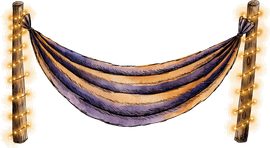
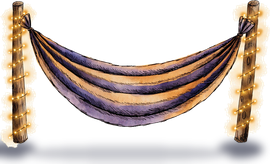
Foresta e ChiwiCrush

diff --git a/js/dati.js b/js/dati.js
@@ -278,80 +278,80 @@ var ZONE = [
   {
     id: "foresta", nome: "La foresta delle lucciole", musica: "notte", sfondo: "img/zona5/vuota.jpg", cartella: "img/zona5/", senzaIcone: true,
     descrizione: "Una foresta dove è sempre notte e la luce la fanno le lucciole.",
-    prati: [{ x1: 26, x2: 74, y1: 64, y2: 84 }],
+    prati: [{ x1: 28, x2: 72, y1: 68, y2: 82 }],
     pezzi: {
       for_casetta: {
         nome: "Casetta nel tronco", livello: 12, costo: { legnetti: 14, sassolini: 6 }, xp: 30,
-        pos: [2, 49.22, 22, 14.78], tocco: [[3.8, 50.4, 22.2, 63.3]],
+        pos: [3, 45.88, 30, 20.12], tocco: [[5.4, 47.49, 30.6, 64.39]],
         descrizione: "Una casetta rotonda dentro un vecchio tronco, con la finestra che brilla."
       },
       for_barattoli: {
         nome: "Barattoli di lucciole", livello: 12, costo: { legnetti: 6, petali: 6 }, xp: 20,
-        pos: [23, 53.08, 8, 9.92], tocco: [[23.6, 53.9, 30.4, 62.5]],
+        pos: [27, 59.54, 10, 12.46], tocco: [[27.8, 60.54, 36.2, 71]],
         descrizione: "Barattoli pieni di lucciole appesi a un palo: fanno luce tutta la notte."
       },
       for_funghi: {
         nome: "Cerchio di funghi blu", livello: 12, costo: { petali: 10 }, xp: 20,
-        pos: [38, 64.32, 24, 8.68], tocco: [[39.9, 65.0, 60.1, 72.6]],
+        pos: [33, 70.64, 30, 10.86], tocco: [[35.4, 71.51, 60.6, 80.63]],
         descrizione: "Un cerchio magico di funghi che brillano di blu."
       },
       for_panchina: {
         nome: "Panchina di muschio", livello: 13, costo: { sassolini: 10 }, xp: 18,
-        pos: [7, 66.83, 16, 8.17], tocco: [[8.3, 67.5, 21.7, 74.6]],
+        pos: [6, 68.81, 20, 10.19], tocco: [[7.6, 69.62, 24.4, 78.18]],
         descrizione: "Una panchina di pietra coperta di muschio morbido e fiorellini."
       },
       for_fiore: {
         nome: "Il grande fiore lucente", livello: 13, costo: { petali: 12, stelle: 2 }, xp: 24,
-        pos: [63, 55.37, 11, 8.63], tocco: [[63.9, 56.1, 73.1, 63.6]], bolla: [68.5, 57.4],
+        pos: [71, 61.03, 14, 10.97], tocco: [[72.12, 61.91, 83.88, 71.12]], bolla: [78, 63.67],
         produce: { materiale: "petali", ogni: 3 * MINUTO, max: 5 },
         descrizione: "Un fiore gigante che si apre di notte e lascia cadere petali luminosi."
       },
       for_amaca: {
         nome: "Amaca delle lucciole", livello: 13, costo: { legnetti: 10, petali: 6 }, xp: 22,
-        pos: [37, 52.35, 25, 7.65], tocco: [[39.0, 53.0, 60.0, 59.6]],
+        pos: [37, 59.65, 32, 10.85], tocco: [[39.56, 60.52, 66.44, 69.63]],
         descrizione: "Un'amaca a righe tra due pali con le lucine: per dondolarsi sotto le stelle."
       },
       for_laghetto: {
         nome: "Laghetto delle ninfee", livello: 14, costo: { sassolini: 10, petali: 6 }, xp: 24,
-        pos: [23, 76.54, 18, 6.46], tocco: [[24.4, 77.1, 39.6, 82.7]],
+        pos: [24, 79.09, 22, 7.91], tocco: [[25.76, 79.72, 44.24, 86.37]],
         descrizione: "Un piccolo laghetto blu con le ninfee rosa."
       },
       for_legna: {
         nome: "Legnetti e copertina", livello: 14, costo: { legnetti: 12 }, xp: 22,
-        pos: [82, 72.04, 13, 7.96], tocco: [[83.0, 72.7, 94.0, 79.6]], bolla: [88.5, 74.0],
+        pos: [79, 76.79, 15, 9.21], tocco: [[80.2, 77.53, 92.8, 85.26]], bolla: [86.5, 79.06],
         produce: { materiale: "legnetti", ogni: 3 * MINUTO, max: 5 },
         descrizione: "Una catasta di legnetti con la copertina e la lanterna: qui si trovano sempre legnetti."
       },
       for_ceppo: {
         nome: "Tavolino del tè", livello: 14, costo: { legnetti: 8, sassolini: 6, stelle: 2 }, xp: 26,
-        pos: [59, 72.56, 15, 7.44], tocco: [[60.2, 73.2, 72.8, 79.6]],
+        pos: [66, 69.57, 19, 9.43], tocco: [[67.52, 70.33, 83.48, 78.25]],
         descrizione: "Un vecchio ceppo diventato tavolino, con le tazzine di ghianda e la teiera."
       },
       for_cartello: {
         nome: "Cartello del bosco", livello: 15, costo: { legnetti: 8 }, xp: 16,
-        pos: [73, 66.27, 7, 8.73], tocco: [[73.6, 67.0, 79.4, 74.6]],
+        pos: [86, 64.07, 8, 9.93], tocco: [[86.64, 64.87, 93.36, 73.21]],
         descrizione: "Un cartello con tre frecce: indica la strada per tutte le terre del Giardino."
       },
       for_sentiero: {
         nome: "Sentiero delle lanterne", livello: 15, costo: { sassolini: 14, stelle: 2 }, xp: 28,
-        pos: [40, 79.42, 26, 8.58], tocco: [[42.1, 80.1, 63.9, 87.6]], bolla: [53.0, 81.4],
+        pos: [48, 79.11, 30, 9.89], tocco: [[50.4, 79.9, 75.6, 88.21]], bolla: [63, 81.39],
         produce: { materiale: "sassolini", ogni: 4 * MINUTO, max: 4 },
         descrizione: "Sassi piatti con le lanterne di carta, per non perdersi di notte."
       },
       for_cespuglio: {
         nome: "Cespuglio di bacche", livello: 15, costo: { petali: 8, spinaci: 6 }, xp: 22,
-        pos: [74, 81.56, 15, 7.44], tocco: [[75.2, 82.2, 87.8, 88.6]], bolla: [81.5, 83.6],
+        pos: [4, 76.06, 16, 7.94], tocco: [[5.28, 76.7, 18.72, 83.36]], bolla: [12, 78.24],
         produce: { materiale: "spinaci", ogni: 2 * MINUTO, max: 6 },
         descrizione: "Un cespuglio di bacche blu e rosa: al Chiwinnie piacciono quasi come gli spinaci!"
       },
       for_altalena: {
         nome: "Altalena di rampicanti", livello: 16, costo: { legnetti: 14, stelle: 3 }, xp: 30,
-        pos: [77, 51.63, 18, 14.37], tocco: [[78.4, 52.8, 93.6, 65.3]],
+        pos: [70, 47.4, 22, 17.6], tocco: [[71.76, 48.81, 90.24, 63.59]],
         descrizione: "Un'altalena appesa a un arco di foglie e fiorellini luminosi."
       },
       for_ponte: {
         nome: "Ponticello delle lanterne", livello: 16, costo: { legnetti: 16, sassolini: 8, stelle: 3 }, xp: 34,
-        pos: [2, 87.78, 25, 8.22], tocco: [[4.0, 88.4, 25.0, 95.6]],
+        pos: [0, 83.45, 26, 8.55], tocco: [[2.08, 84.14, 23.92, 91.32]],
         descrizione: "Un ponticello di legno sul ruscello, con le lanterne sulle ringhiere."
       }
     }
@@ -988,8 +988,8 @@ var MINIGIOCHI = {
     descrizione: "Il sentiero verso la terra dopo! È l'avventura più lunga: corri, salta i nebbiolini e non farti prendere dal Nebbione. In fondo ti aspetta un forziere."
   },
   tris: {
-    nome: "Scambio magico", img: "img/petali.png", livello: 2, energia: 10,
-    descrizione: "Scambia due simboli vicini per metterne tre uguali in fila, oppure quattro a quadrato: spariscono e ne cadono di nuovi. Con quattro in fila nasce una girandola: scambiala con un simbolo e spariscono tutti quelli uguali! Con una L, una T o un rettangolo nasce una bomba di fiori che scoppia tutto intorno, con cinque in fila la sfera arcobaleno che pulisce tutto. Raccogli quello che chiede il Chiwinnie prima che finiscano le mosse."
+    nome: "ChiwiCrush", img: "img/petali.png", livello: 2, energia: 10,
+    descrizione: "Scambia due simboli vicini per metterne tre uguali in fila, oppure quattro a quadrato: spariscono e ne cadono di nuovi. Con quattro in fila nasce una girandola: scambiala con un simbolo e spariscono tutti quelli uguali! Con una L, una T o un rettangolo nasce una bomba di fiori che scoppia tutto intorno, con cinque in fila la sfera arcobaleno che pulisce tutto. Più terre apri, più simboli del mondo dei Chiwinnie trovi: funghi, pigne, ninfee, cupcake, cristalli… Raccogli quello che chiede il Chiwinnie prima che finiscano le mosse."
   },
   conti: {
     nome: "Indovinelli dei numeri", img: "img/stella.png", livello: 1, energia: 0, rompicapo: true,
@@ -1162,7 +1162,7 @@ var MISSIONI = [
   { id: "avventura", testo: "Arriva in fondo a un'avventura", testoN: "Arriva in fondo a {n} avventure", ev: "partita", conta: function (d) { return d.arcade && d.completato ? 1 : 0; }, n: [1, 1, 2, 2, 3] },
   { id: "stelle",    testo: "Trova {n} stelle nascoste nelle avventure", ev: "partita", conta: function (d) { return d.arcade ? d.stelleLivello || 0 : 0; }, n: [1, 2, 3, 4, 5] },
   { id: "rompicapi", testo: "Risolvi {n} rompicapi", ev: "partita", conta: function (d) { return d.rompicapo && d.completato ? 1 : 0; }, n: [1, 2, 2, 3, 4] },
-  { id: "tris",      testo: "Fai {n} file nello Scambio magico", ev: "partita", gioco: "tris", conta: function (d) { return d.gioco === "tris" ? d.file || 0 : 0; }, n: [15, 25, 35, 45, 60] },
+  { id: "tris",      testo: "Fai {n} file in ChiwiCrush", ev: "partita", gioco: "tris", conta: function (d) { return d.gioco === "tris" ? d.file || 0 : 0; }, n: [15, 25, 35, 45, 60] },
   { id: "conti",     testo: "Rispondi giusto a {n} indovinelli dei numeri", ev: "partita", gioco: "conti", conta: function (d) { return d.gioco === "conti" ? d.giuste || 0 : 0; }, n: [5, 8, 10, 15, 20] },
   { id: "fuga",      testo: "Scappa dal Nebbione fino in fondo", ev: "partita", gioco: "fuga", conta: function (d) { return d.gioco === "fuga" && d.completato ? 1 : 0; }, n: [1] },
   { id: "memory",    testo: "Completa {n} Memory dei fiori", ev: "partita", gioco: "memory", conta: function (d) { return d.gioco === "memory" && d.completato ? 1 : 0; }, n: [1, 1, 2] },

diff --git a/js/giochini.js b/js/giochini.js
@@ -1,4 +1,4 @@
-// Giochini: lo Scambio magico (tre in fila, quadrati e L) e gli Indovinelli dei numeri.
+// Giochini: ChiwiCrush (tre in fila, quadrati e L) e gli Indovinelli dei numeri.
 // Come gli altri minigiochi: ricevono (area, api) e restituiscono una funzione che li ferma.
 (function () {
   function mescola(a) { for (var i = a.length - 1; i > 0; i--) { var j = Math.floor(Math.random() * (i + 1)); var t = a[i]; a[i] = a[j]; a[j] = t; } return a; }
@@ -6,7 +6,7 @@
   function scegli(a) { return a[Math.floor(Math.random() * a.length)]; }
   function vibra(ms) { try { navigator.vibrate && navigator.vibrate(ms); } catch (e) {} }
 
-  // ================= Scambio magico (era il Tris di fiori) =================
+  // ================= ChiwiCrush (era il Tris di fiori) =================
   // Si scambiano due simboli vicini: tre o più uguali in fila spariscono e dall'alto ne cadono di nuovi.
   // Valgono le file di tre (in riga o in colonna), i quadrati 2×2, i rettangoli a due colonne e le L.
   // Quattro in fila fanno nascere una girandola: scambiata con un simbolo fa sparire tutti quelli uguali.
@@ -15,7 +15,18 @@
   // Gli speciali si attivano appena li scambi; due speciali scambiati fra loro scoppiano insieme.
   var TIPI = ["spinaci", "petali", "legnetti", "sassolini", "stella", "lucciola"];
   var NOMI = { spinaci: "spinaci", petali: "petali", legnetti: "legnetti", sassolini: "sassolini", stella: "stelline", lucciola: "lucciole" };
-  function imgTipo(t) { return t === "stella" ? "img/stella.png" : t === "lucciola" ? "img/lucciola.png" : MATERIALI[t].img; }
+  // altri simboli del mondo dei Chiwinnie: entrano nel gioco quando si apre la loro terra.
+  // "da" è il materiale che regalano a fine partita.
+  var ALTRI = {
+    fungo:       { img: "img/bosco/fungo.png",          da: "spinaci",   colore: "#e57a8a" },
+    pigna:       { img: "img/pigna.png",                da: "legnetti",  colore: "#9b6a3e" },
+    ninfea:      { img: "img/ruscello/ninfea.png",      da: "spinaci",   colore: "#7cb86a", zona: "ruscello" },
+    barattolo:   { img: "img/foresta/barattolo.png",    da: "sassolini", colore: "#f4d77a", zona: "foresta" },
+    fiorecactus: { img: "img/deserto/fiorecactus.png",  da: "petali",    colore: "#f29a7a", zona: "deserto" },
+    cupcake:     { img: "img/panna/cupcake.png",        da: "petali",    colore: "#f5b6d0", zona: "panna" },
+    cristalli:   { img: "img/gemme/cristalli.png",      da: "sassolini", colore: "#8a6fc0", zona: "gemme" }
+  };
+  function imgTipo(t) { return ALTRI[t] ? ALTRI[t].img : t === "stella" ? "img/stella.png" : t === "lucciola" ? "img/lucciola.png" : MATERIALI[t].img; }
   var LIVELLI_TRIS = {
     facile:    { tipi: 5, mosse: 25, obiettivi: 2, quanti: 14 },
     medio:     { tipi: 6, mosse: 22, obiettivi: 3, quanti: 15 },
@@ -34,9 +45,13 @@
     ], gioca, api);
 
     function gioca(box, liv) {
-      var L = LIVELLI_TRIS[liv], tipi = TIPI.slice(0, L.tipi);
+      // ogni partita mescola i simboli di sempre con quelli delle terre già aperte (circa metà e metà)
+      var aperte = api.zoneAperte || [];
+      var nuovi = Object.keys(ALTRI).filter(function (k) { return !ALTRI[k].zona || aperte.indexOf(ALTRI[k].zona) !== -1; });
+      var L = LIVELLI_TRIS[liv], quantiNuovi = Math.min(nuovi.length, Math.floor(L.tipi / 2));
+      var tipi = mescola(TIPI.slice()).slice(0, L.tipi - quantiNuovi).concat(mescola(nuovi).slice(0, quantiNuovi));
       var mosse = L.mosse, punti = 0, file = 0, occupato = false, finito = false, ultimoTocco = Date.now();
-      var presi = {}; TIPI.forEach(function (t) { presi[t] = 0; });
+      var presi = {}; TIPI.concat(Object.keys(ALTRI)).forEach(function (t) { presi[t] = 0; });
       var obiettivi = mescola(tipi.slice()).slice(0, L.obiettivi).map(function (t) { return { t: t, n: L.quanti }; });
       box.innerHTML = "<div class='tris-obiettivi'></div><div class='tris-tavola'></div><div class='tris-legenda'><span><img src='img/tris/girandola.png' alt=''>4 in fila</span><span><img src='img/tris/bomba.png' alt=''>L, T o 2×3</span><span><img src='img/tris/arcobaleno.png' alt=''>5 in fila</span></div><p class='spiega'>Trascina un simbolo verso quello vicino: valgono le file di 3 e anche i quadrati! Scambia uno speciale per farlo scoppiare.</p>";
       var tav = box.querySelector(".tris-tavola"), ob = box.querySelector(".tris-obiettivi");
@@ -98,6 +113,7 @@
         effetto("onda", "left:" + q.x + "%;top:" + q.y + "%;width:" + d + "%;height:" + d + "%;", 700);
       }
       var COLORI = { spinaci: "#6fae4e", petali: "#f3a6b6", legnetti: "#b07a4a", sassolini: "#9aa3ad", stella: "#ffd23f", lucciola: "#d7ff6a" };
+      Object.keys(ALTRI).forEach(function (k) { COLORI[k] = ALTRI[k].colore; });
       var scintilleOra = 0;
       function scintille(p, t) {
         if (scintilleOra > 36) return;
@@ -383,14 +399,17 @@
         var vinto = obiettivi.every(function (o) { return presi[o.t] >= o.n; });
         if (!vinto && mosse > 0) return;
         finito = true;
-        var b = { spinaci: Math.floor(presi.spinaci / 5), petali: Math.floor(presi.petali / 5) + Math.floor(presi.lucciola / 6),
-          legnetti: Math.floor(presi.legnetti / 5), sassolini: Math.floor(presi.sassolini / 5), stelle: 0 };
+        // i simboli nuovi contano per il materiale che regalano (il fungo come gli spinaci, la pigna come i legnetti…)
+        var conta = { spinaci: presi.spinaci, petali: presi.petali, legnetti: presi.legnetti, sassolini: presi.sassolini };
+        Object.keys(ALTRI).forEach(function (k) { conta[ALTRI[k].da] += presi[k]; });
+        var b = { spinaci: Math.floor(conta.spinaci / 5), petali: Math.floor(conta.petali / 5) + Math.floor(presi.lucciola / 6),
+          legnetti: Math.floor(conta.legnetti / 5), sassolini: Math.floor(conta.sassolini / 5), stelle: 0 };
         if (vinto) { b.petali += 3 + mosse; b.stelle = mosse >= 5 || liv === "difficile" ? 1 : 0; }
         if (vinto) tav.classList.add("vinto");
         dopo(vinto ? 900 : 500, function () {
           api.fine({
             punti: Math.round(punti / 3) + (vinto ? 10 : 0), completato: vinto, file: file, bottino: b,
-            titolo: vinto ? "Scambio riuscito!" : "Mosse finite!",
+            titolo: vinto ? "ChiwiCrush!" : "Mosse finite!",
             messaggio: vinto ? "Hai raccolto tutto quello che chiedeva il Chiwinnie con " + mosse + (mosse === 1 ? " mossa" : " mosse") + " di avanzo, e fatto " + file + " file!" + (b.stelle ? " Una stella in regalo!" : "")
               : "Hai fatto " + file + " file e quello che hai raccolto resta tuo. Riprova!"
           });

diff --git a/sw.js b/sw.js
@@ -1,7 +1,7 @@
 // Service worker: permette di giocare anche senza internet.
 // Al primo avvio salva i file principali; le immagini si salvano man mano che il gioco le usa.
 // Quando si pubblica una nuova versione basta cambiare VERSIONE: i telefoni scaricano i file nuovi.
-var VERSIONE = "chiwinnie-0.36.0";
+var VERSIONE = "chiwinnie-0.37.0";
 var ESSENZIALI = [
   "./", "index.html", "manifest.webmanifest", "css/gioco.css",
   "js/dati.js", "js/audio.js", "js/minigiochi.js", "js/arcade.js", "js/colora.js", "js/rompicapi.js", "js/aggiustatutto.js", "js/casa.js", "js/missione.js", "js/mappa.js", "js/giochini.js", "js/gioco.js",
